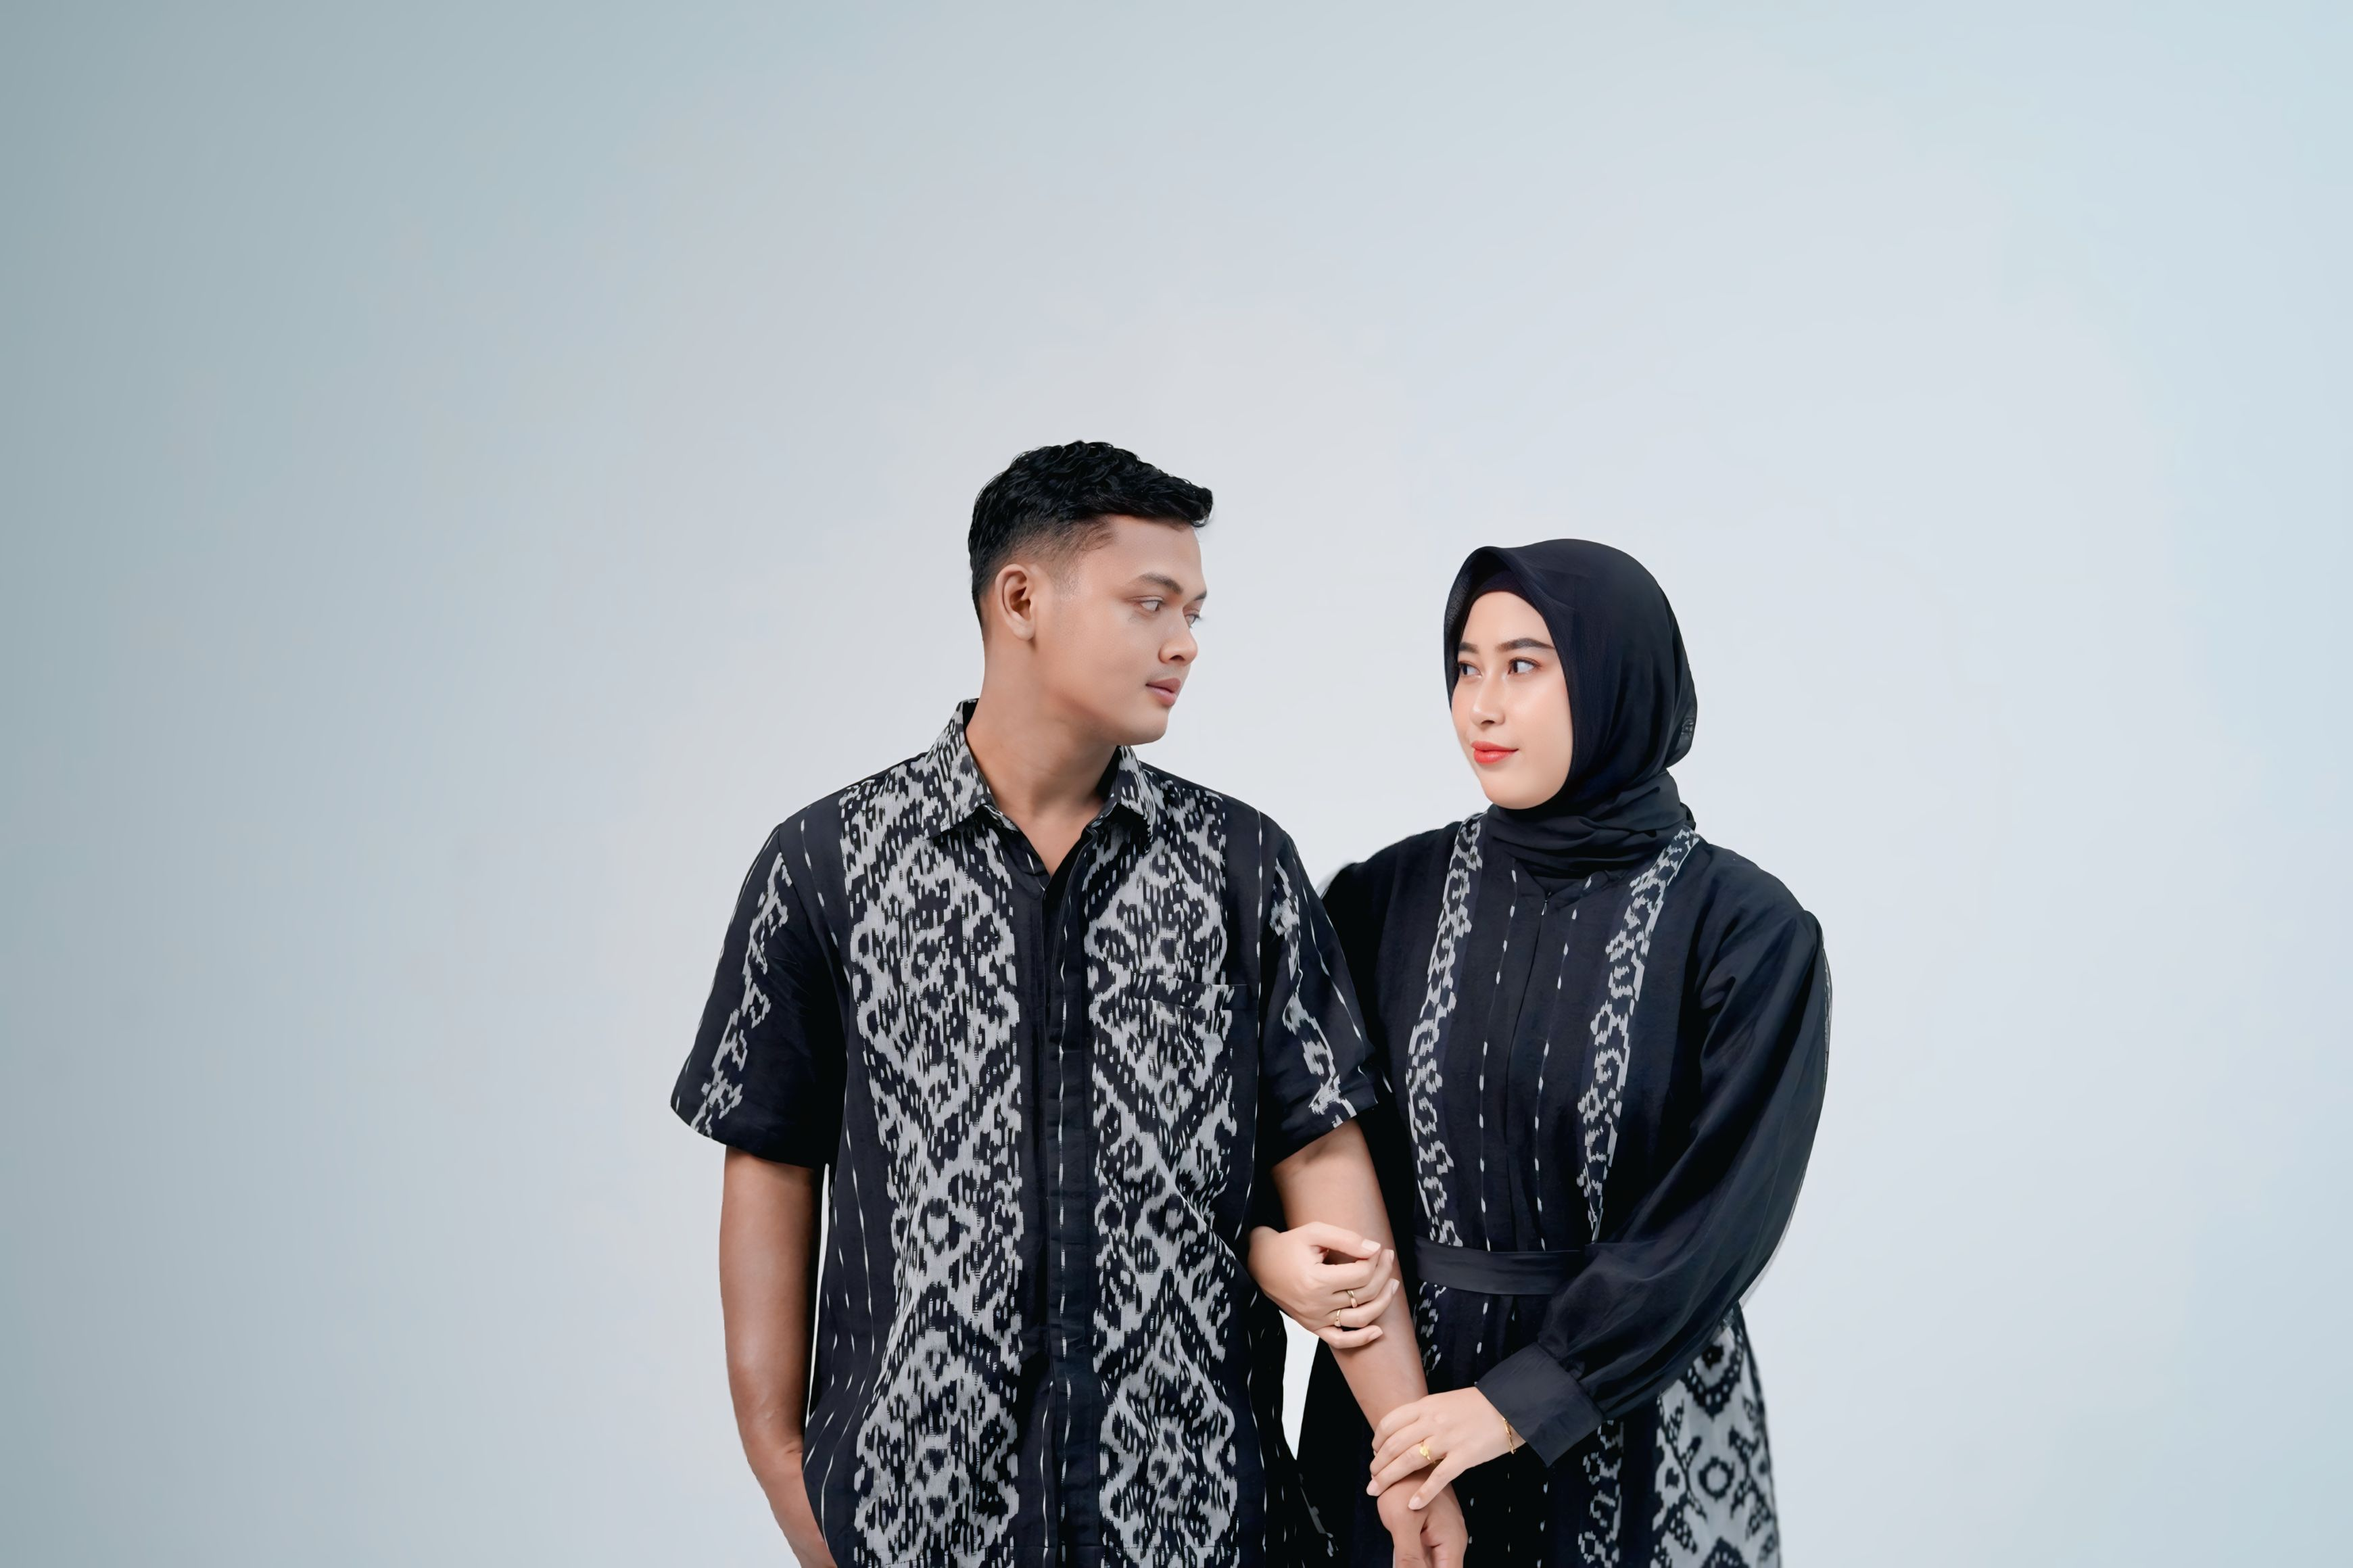
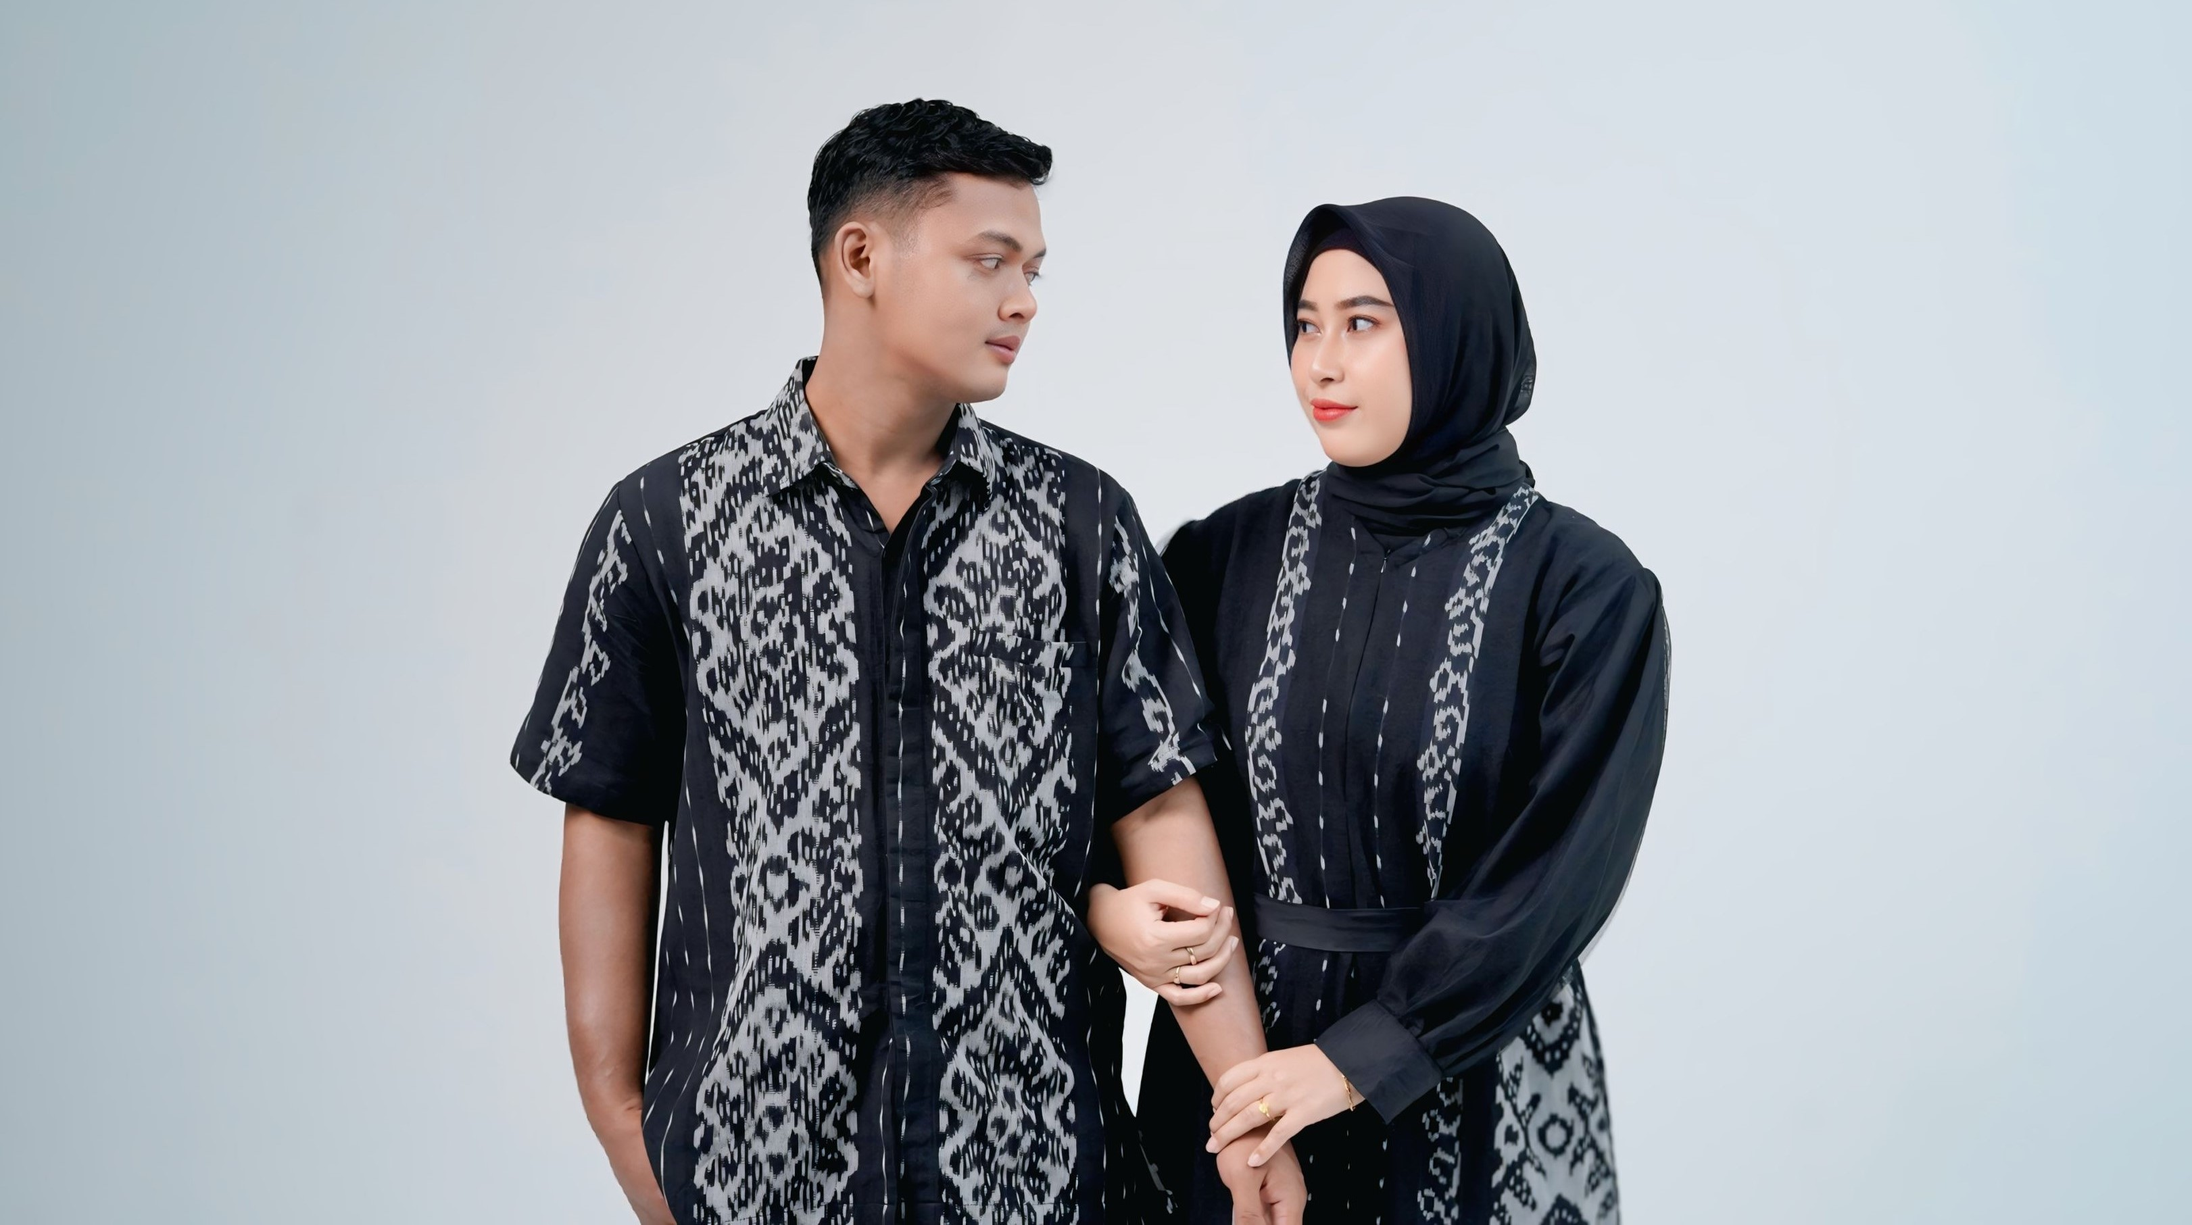
Perbaiki tinggi background cover agar pas di HP

Changed region(s): [[0.218, 0.0618, 0.7786, 1.0]]

diff --git a/index.html b/index.html
@@ -24,22 +24,46 @@
       transition: opacity 0.5s ease;
     }
 
+    /* 🔹 Cover section dengan foto */
     .cover {
-      background: url('foto_cover.jpg') center/cover no-repeat;
-      color: white;
       position: relative;
+      height: 100vh;
+      overflow: hidden;
+      display: flex;
+      justify-content: center;
+      align-items: center;
     }
 
+    .cover-bg {
+      position: absolute;
+      top: 0;
+      left: 0;
+      width: 100%;
+      height: 100%;
+      object-fit: cover;
+      object-position: 60% center; /* Fokus wajah di desktop */
+      z-index: 0;
+      filter: brightness(70%);
+    }
+
+    /* 🔹 Efek gradasi bawah agar teks jelas */
     .cover::after {
       content: "";
       position: absolute;
-      top: 0; left: 0; right: 0; bottom: 0;
-      background: rgba(0,0,0,0.5);
+      bottom: 0;
+      left: 0;
+      width: 100%;
+      height: 40%;
+      background: linear-gradient(to top, rgba(0,0,0,0.6), transparent);
+      z-index: 1;
     }
 
     .cover-content {
       position: relative;
-      z-index: 1;
+      z-index: 2;
+      color: white;
+      text-align: center;
+      padding: 0 20px;
     }
 
     h1 {
@@ -103,11 +127,96 @@
       font-size: 0.9rem;
       color: #333;
     }
+
+    .couple {
+      display: flex;
+      flex-direction: row;
+      align-items: center;
+      justify-content: center;
+      gap: 50px;
+      flex-wrap: wrap;
+      margin-top: 30px;
+    }
+
+    .person {
+      text-align: center;
+      max-width: 250px;
+    }
+
+    .name {
+      font-weight: 600;
+      color: #333;
+      margin-top: 10px;
+      font-size: 1.1em;
+    }
+
+    .desc {
+      font-size: 0.95em;
+      color: #555;
+      line-height: 1.5;
+      margin-top: 5px;
+    }
+
+    .and {
+      font-family: 'Great Vibes', cursive;
+      font-size: 3em;
+      color: #b97a56;
+      margin: 0 15px;
+    }
+
+    .event-details {
+      background: #fdf6f0;
+      border-radius: 15px;
+      padding: 20px;
+      margin: 20px auto;
+      width: fit-content;
+      text-align: center;
+      box-shadow: 0 2px 8px rgba(0,0,0,0.1);
+    }
+
+    .event-details .date {
+      font-size: 1.2em;
+      color: #8b5e3c;
+      margin-bottom: 5px;
+    }
+
+    .event-details .time {
+      font-size: 1.1em;
+      color: #5a4633;
+      margin-bottom: 10px;
+    }
+
+    .event-details .place {
+      font-size: 0.95em;
+      color: #444;
+      line-height: 1.5;
+    }
+
+    .closing-text {
+      margin-top: 20px;
+      font-size: 1em;
+      color: #333;
+      line-height: 1.6;
+    }
+
+    /* 🔸 Tambahan khusus untuk HP */
+    @media (max-width: 768px) {
+      .cover-bg {
+        object-position: center 25%; /* Geser fokus ke tengah atas agar wajah pas */
+      }
+      h1 {
+        font-size: 2.2em;
+      }
+      .cover-content p {
+        font-size: 1em;
+      }
+    }
   </style>
 </head>
 <body>
 
   <section class="cover active" id="cover">
+    <img src="foto_cover.jpg" alt="Lily & Wahyu" class="cover-bg">
     <div class="cover-content">
       <h1>Lily & Wahyu</h1>
       <p>Sabtu, 15 November 2025</p>
@@ -115,57 +224,8 @@
     </div>
   </section>
 
-  <section class="section" id="mempelai">
-    <h2 class="subtitle">Mempelai</h2>
-    <img src="foto_lily.png" alt="Lily" class="photo">
-    <p><strong>Lily Nur Rahmawati</strong></p>
-    <img src="foto_wahyu.png" alt="Wahyu" class="photo">
-    <p><strong>Wahyu Zaenuri</strong></p>
-    <button class="btn" onclick="nextSection('acara')">Lanjut</button>
-  </section>
-
-  <section class="section" id="acara">
-    <h2 class="subtitle">Acara Pernikahan</h2>
-    <p>Dengan memohon rahmat dan ridho Allah SWT, kami bermaksud menyelenggarakan acara pernikahan kami:</p>
-    <p><strong>Sabtu, 15 November 2025</strong></p>
-    <p>Pukul: 09.00 WIB - Selesai</p>
-    <button class="btn" onclick="nextSection('lokasi')">Lanjut</button>
-  </section>
-
-  <section class="section" id="lokasi">
-  <h2 class="subtitle">Lokasi</h2>
-  <p class="location">
-    Unnamed Road, Kepuhrubuh, Lemahputih,<br>
-    Kec. Brati, Kabupaten Grobogan,<br>
-    Jawa Tengah 58183
-  </p>
-  <a href="https://maps.app.goo.gl/sg76jAqjj54XN4Wb7?g_st=aw" target="_blank" class="btn">Lihat di Google Maps</a>
-  <button class="btn" onclick="nextSection('hadiah')">Lanjut</button>
-</section>
-
-  <section class="section" id="hadiah">
-    <h2 class="subtitle">Kado & Hadiah</h2>
-    <p>Doa restu Anda merupakan hadiah yang paling berharga bagi kami. Namun, jika ingin memberikan tanda kasih, dapat dikirim melalui:</p>
-    <div class="location">
-      <p>🏦 Bank Jateng 311 808 1217</p>
-      <p>🏦 BRI 6016 0103 5972 536</p>
-      <p>🏦 BCA 816 527 0220</p>
-      <p>📱 DANA 083 843 244 044</p>
-    </div>
-    <button class="btn" onclick="nextSection('penutup')">Lanjut</button>
-  </section>
-
-  <section class="section" id="penutup">
-    <h2 class="subtitle">Terima Kasih</h2>
-    <p>Terima kasih atas doa dan restu yang diberikan. Semoga kita semua senantiasa diberkahi kebahagiaan dan cinta yang tulus.</p>
-    <p style="margin-top:15px;">Dengan cinta,<br><strong>Lily & Wahyu</strong></p>
-  </section>
-
-  <footer>
-    <p>© 2025 Lily & Wahyu | Dibuat dengan ❤ oleh keluarga dan sahabat</p>
-  </footer>
-
-  <audio id="bgm" src="musik.mp3" autoplay loop></audio>
+  <!-- sisanya tetap sama seperti versi sebelumnya -->
+  <!-- ... (mempelai, acara, lokasi, hadiah, penutup, footer, ucapan) ... -->
 
   <script>
     function nextSection(nextId) {
@@ -173,31 +233,5 @@
       document.getElementById(nextId).classList.add('active');
     }
   </script>
-  <!-- Bagian Form Ucapan -->
-<section id="ucapan" style="background:#fffaf8; padding:40px 20px; text-align:center; font-family:'Poppins', sans-serif;">
-  <h2 style="font-family:'Playfair Display', serif; font-size:24px; margin-bottom:10px; color:#333;">
-    Kirim Ucapan Selamat 💌
-  </h2>
-  <p style="font-size:14px; color:#555; margin-bottom:30px;">
-    Silakan tuliskan doa dan ucapan terbaik untuk kami
-  </p>
-
-  <form action="https://formspree.io/f/mblpdlwz" method="POST" style="max-width:400px; margin:0 auto; text-align:left;">
-    <label for="nama" style="font-size:14px; color:#444;">Nama</label>
-    <input type="text" id="nama" name="nama" required 
-      style="width:100%; padding:10px; margin:8px 0 16px 0; border:1px solid #ccc; border-radius:8px; font-size:14px;">
-
-    <label for="pesan" style="font-size:14px; color:#444;">Ucapan</label>
-    <textarea id="pesan" name="pesan" rows="4" required
-      style="width:100%; padding:10px; margin:8px 0 16px 0; border:1px solid #ccc; border-radius:8px; font-size:14px;"></textarea>
-
-    <button type="submit" 
-      style="background:#3c3b3b; color:#fff; border:none; padding:12px 20px; border-radius:10px; font-size:14px; cursor:pointer; width:100%; transition:0.3s;">
-      Kirim Ucapan
-    </button>
-  </form>
-
-  <p style="margin-top:20px; font-size:13px; color:#888;">Terima kasih atas doa dan ucapannya 💕</p>
-</section>
 </body>
 </html>
